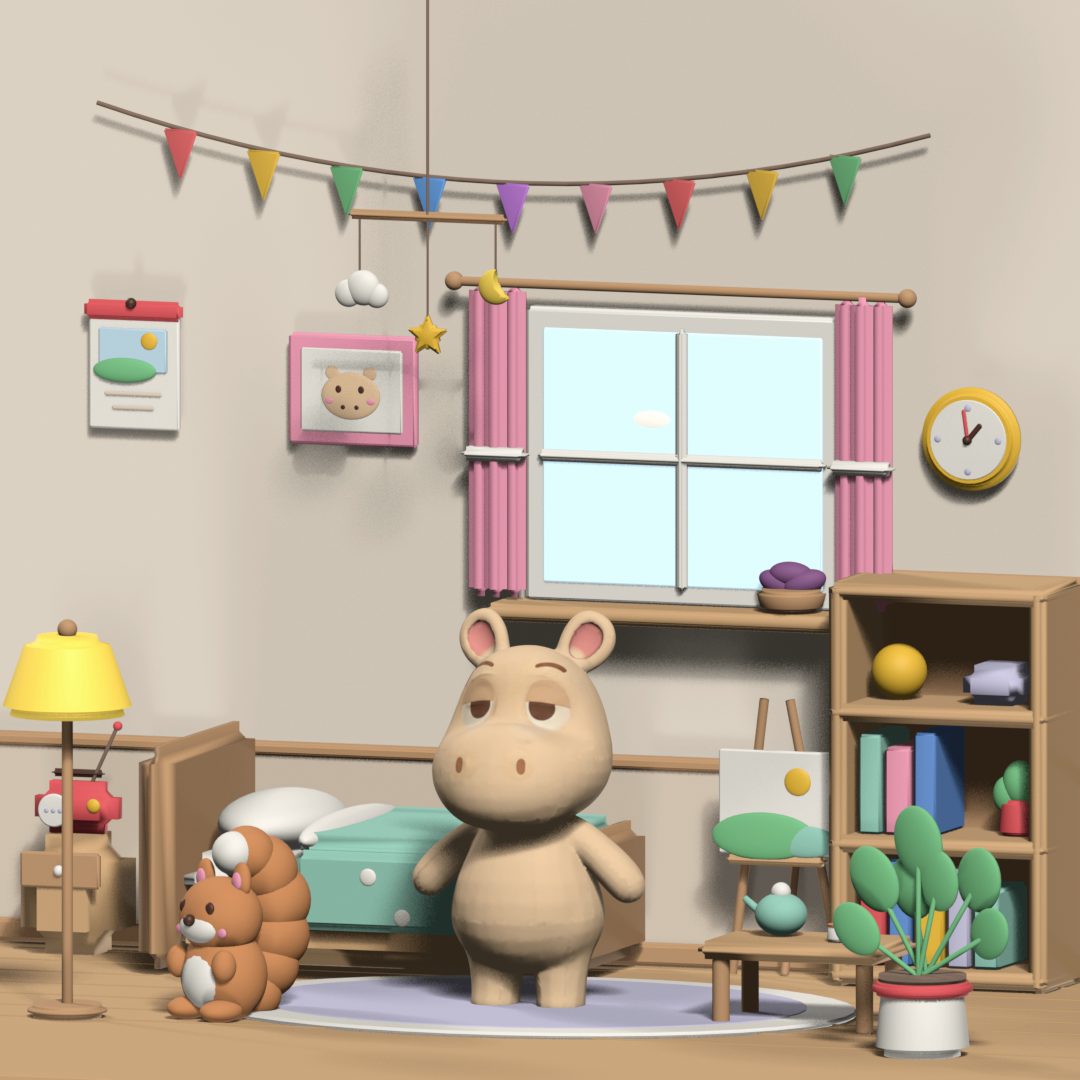
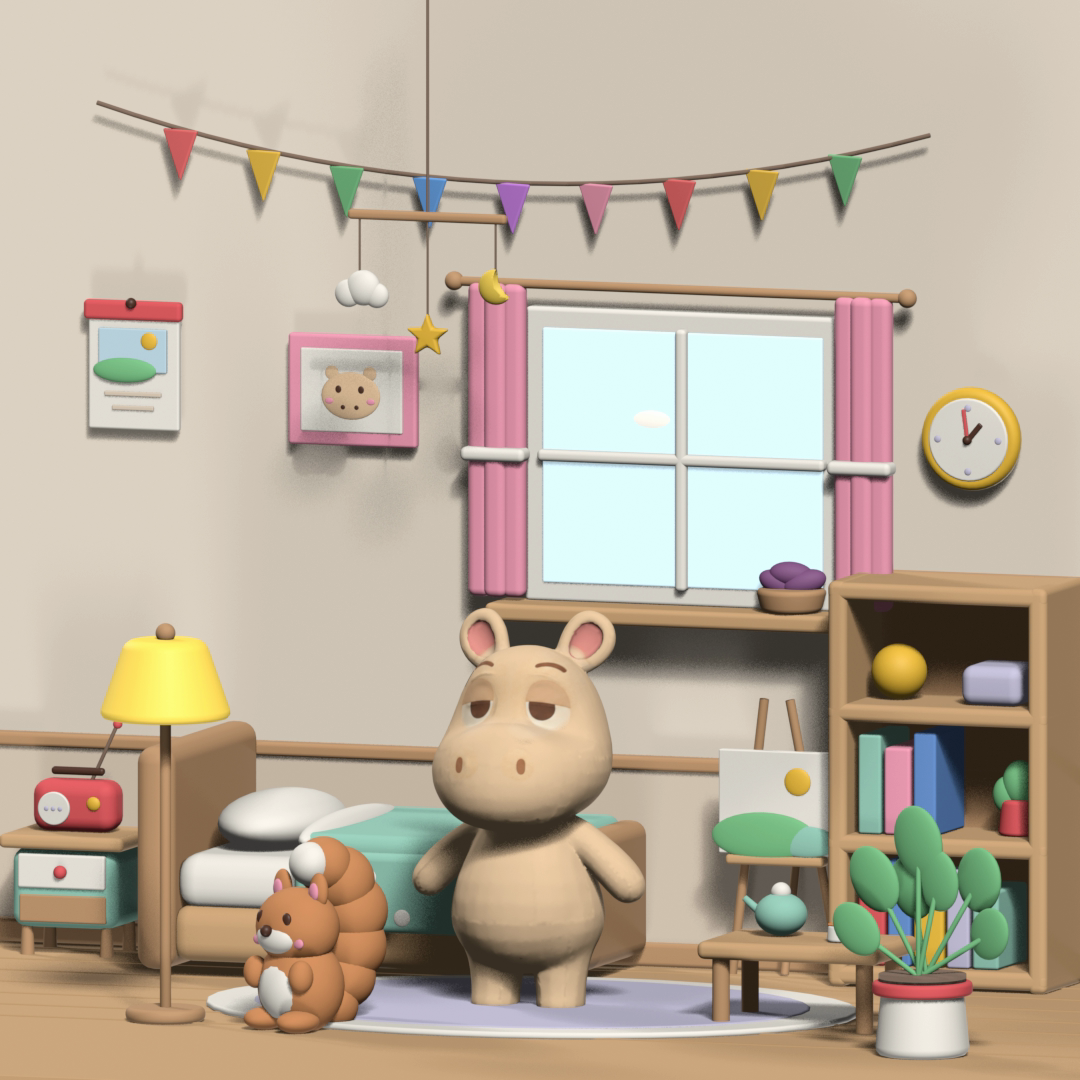
world: nightstand v2, aquarium fish visible, lamp moved, bevel profile fix (all props re-rendered)

diff --git a/scripts/blender/room.py b/scripts/blender/room.py
@@ -50,15 +50,15 @@ def _link(bm, name, m, weighted=True):
     if weighted:
         # big flat faces keep flat normals; only the bevels are smooth. Without this, smooth shading of a
         # beveled box bleeds the corner normals across the whole face (dark gradient on walls, faceted books).
-        wn = o.modifiers.new("wn", "WEIGHTED_NORMAL"); wn.mode = "FACE_AREA"; wn.weight = 100; wn.keep_sharp = True
+        wn = o.modifiers.new("wn", "WEIGHTED_NORMAL"); wn.mode = "FACE_AREA"; wn.weight = 50; wn.keep_sharp = True
     return o
 
 
-def rbox(name, size, loc, m, r=0.25, seg=3):
+def rbox(name, size, loc, m, r=0.25, seg=5):
     """rounded box; r = bevel as fraction of the smallest side"""
     bm = bmesh.new(); bmesh.ops.create_cube(bm, size=1.0)
     bmesh.ops.scale(bm, vec=size, verts=bm.verts)
-    bmesh.ops.bevel(bm, geom=list(bm.edges), offset=min(size) * min(r, 0.42), segments=seg, affect="EDGES", clamp_overlap=True)
+    bmesh.ops.bevel(bm, geom=list(bm.edges), offset=min(size) * min(r, 0.42), segments=seg, affect="EDGES", profile=0.5, clamp_overlap=True)
     o = _link(bm, name, m); o.location = loc
     return o
 
@@ -74,7 +74,7 @@ def cyl(name, r, h, loc, m, r2=None, seg=40, bevel=0.3, rot=None):
     bmesh.ops.create_cone(bm, cap_ends=True, segments=seg, radius1=r, radius2=r if r2 is None else r2, depth=h)
     if bevel:
         edges = [e for e in bm.edges if not e.is_manifold or e.calc_face_angle(0) > 0.5]
-        bmesh.ops.bevel(bm, geom=edges, offset=min(r, h) * bevel, segments=3, affect="EDGES")
+        bmesh.ops.bevel(bm, geom=edges, offset=min(r, h) * bevel, segments=3, affect="EDGES", profile=0.5)
     o = _link(bm, name, m); o.location = loc
     if rot: o.rotation_euler = rot
     # flat caps keep sharp shading
@@ -227,12 +227,12 @@ def squirrel():
                                       (0.12, 0.33, 0.08), (0.07, 0.37, 0.065), (0.03, 0.375, 0.05))):
         parts.append(sph(f"SqTail{i}", r, (0, ty, tz), m if i < 6 else c))
     g = group("squirrel", parts)
-    g.location = (-0.62, -0.62, FLOOR); g.rotation_euler = (0, 0, math.radians(-28)); g.scale = (1.1, 1.1, 1.1)
+    g.location = (*FRONT_CENTER, FLOOR); g.rotation_euler = (0, 0, math.radians(-28)); g.scale = (1.1, 1.1, 1.1)
     return g
 
 
 def lamp():
-    x, y = -1.0, -0.72
+    x, y = -0.74, -0.72      # pole stays clear of the bedside column (radio/aquarium)
     parts = [
         cyl("LampBase", 0.1, 0.035, (x, y, FLOOR + 0.0175), M("wood2"), bevel=0.4),
         cyl("LampPole", 0.014, 0.78, (x, y, FLOOR + 0.42), M("wood2"), bevel=0),
@@ -250,7 +250,7 @@ def tri(name, w, h, loc, m, thick=0.012):
     ext = bmesh.ops.extrude_face_region(bm, geom=[f])
     bmesh.ops.translate(bm, vec=(0, thick, 0), verts=[v for v in ext["geom"] if isinstance(v, bmesh.types.BMVert)])
     bmesh.ops.recalc_face_normals(bm, faces=bm.faces)
-    bmesh.ops.bevel(bm, geom=list(bm.edges), offset=thick * 0.45, segments=2, affect="EDGES", clamp_overlap=True)
+    bmesh.ops.bevel(bm, geom=list(bm.edges), offset=thick * 0.45, segments=2, affect="EDGES", profile=0.5, clamp_overlap=True)
     o = _link(bm, name, m); o.location = (loc[0], loc[1] - thick, loc[2] + 0.06)
     o.rotation_euler = (0, 0, math.radians(-19))      # square to the 3/4 camera
     return o
@@ -367,7 +367,7 @@ def mobile():
             f = bm.faces.new(verts)
             ext = bmesh.ops.extrude_face_region(bm, geom=[f])
             bmesh.ops.translate(bm, vec=(0, 0.025, 0), verts=[v for v in ext["geom"] if isinstance(v, bmesh.types.BMVert)])
-            bmesh.ops.bevel(bm, geom=list(bm.edges), offset=0.008, segments=2, affect="EDGES", clamp_overlap=True)
+            bmesh.ops.bevel(bm, geom=list(bm.edges), offset=0.008, segments=2, affect="EDGES", profile=0.5, clamp_overlap=True)
             o = _link(bm, "MoStar", M("yellow", 0.6)); o.location = (hx, y - 0.012, hz); parts.append(o)
         else:
             o = sph("MoMoon", 0.045, (hx, y, hz), M("lemon", 0.6), (1, 0.45, 1))
@@ -402,7 +402,7 @@ def rug():
     return group("rug", parts)
 
 
-FRONT_CENTER = (-0.62, -0.62)
+FRONT_CENTER = (-0.36, -0.78)
 
 
 def cushion():
@@ -456,11 +456,21 @@ BEDSIDE = (-1.45, YB - 0.2)
 
 
 def _bedside_table(x, y, parts):
-    w, d, h = 0.26, 0.26, 0.3
-    parts += [rbox("BsBody", (w, d, h), (x, y, FLOOR + h / 2), M("wood"), r=0.25),
-              rbox("BsDrawer", (w - 0.05, 0.02, 0.09), (x, y - d / 2 - 0.005, FLOOR + h - 0.08), M("wood2"), r=0.3),
-              sph("BsKnob", 0.014, (x, y - d / 2 - 0.02, FLOOR + h - 0.08), M("off"))]
-    return FLOOR + h
+    """협탁 v2: overhanging rounded wood top, mint body with one drawer + knob, open cubby, short round legs"""
+    w, d = 0.28, 0.24
+    leg_h, body_h, top_t = 0.07, 0.2, 0.035
+    for sx in (-1, 1):
+        for sy in (-1, 1):
+            parts.append(cyl(f"BsLeg{sx}{sy}", 0.018, leg_h + 0.01, (x + sx * (w / 2 - 0.035), y + sy * (d / 2 - 0.035), FLOOR + leg_h / 2), M("wood2"), r2=0.014, bevel=0.3))
+    zb = FLOOR + leg_h
+    parts += [
+        rbox("BsBody", (w, d, body_h), (x, y, zb + body_h / 2), M("mint", 0.75), r=0.18),
+        rbox("BsCubby", (w - 0.05, 0.02, 0.07), (x, y - d / 2 + 0.006, zb + 0.05), M("wood2", 0.85), r=0.3),     # dark inset = open shelf
+        rbox("BsDrawer", (w - 0.05, 0.02, 0.085), (x, y - d / 2 - 0.004, zb + 0.145), M("off", 0.8), r=0.3),
+        sph("BsKnob", 0.017, (x, y - d / 2 - 0.02, zb + 0.145), M("coral", 0.6)),
+        rbox("BsTop", (w + 0.05, d + 0.04, top_t), (x, y, zb + body_h + top_t / 2), M("wood"), r=0.4),
+    ]
+    return zb + body_h + top_t
 
 
 def radio_stand():
@@ -478,26 +488,33 @@ def radio_stand():
 
 
 def aquarium():
+    """어항 v2: tinted see-through tank (no opaque water block, so the fish show), 2 fish, weeds, bubbles"""
     x, y = BEDSIDE; parts = []
     top = _bedside_table(x, y, parts)
-    w, d, h = 0.24, 0.16, 0.18
-    glass = rbox("AqGlass", (w, d, h), (x, y, top + h / 2), mat("R_aqglass", (0.85, 0.95, 1.0), 0.15, alpha=0.35), r=0.12)
+    w, d, h = 0.25, 0.15, 0.19
+    glass = rbox("AqGlass", (w, d, h), (x, y, top + h / 2), mat("R_aqglass2", (0.70, 0.88, 0.97), 0.1, alpha=0.26), r=0.12)
     m = glass.active_material
     try:
         m.surface_render_method = "BLENDED"
     except Exception:
         m.blend_method = "BLEND"
+    m.use_backface_culling = True
     parts += [glass,
-              rbox("AqWater", (w - 0.02, d - 0.02, h * 0.72), (x, y, top + 0.01 + h * 0.36), M("water", 0.3, 0.15), r=0.12),
-              rbox("AqRim", (w + 0.01, d + 0.01, 0.018), (x, y, top + h), M("mint", 0.7), r=0.4),
-              rbox("AqSand", (w - 0.025, d - 0.025, 0.025), (x, y, top + 0.02), M("pebble", 0.9), r=0.4)]
-    for k, (fx, fz, col, flip) in enumerate(((-0.04, 0.08, "orange", 1), (0.05, 0.05, "confetti_y", -1))):
-        body = sph(f"AqFish{k}", 0.022, (x + fx, y - d / 2 + 0.03, top + fz), M(col, 0.6), (1.4, 0.6, 1))
-        tail = sph(f"AqTail{k}", 0.013, (x + fx - flip * 0.03, y - d / 2 + 0.03, top + fz), M(col, 0.6), (0.7, 0.4, 1.2))
-        eye = sph(f"AqEye{k}", 0.004, (x + fx + flip * 0.015, y - d / 2 + 0.017, top + fz + 0.005), M("brown"))
-        parts += [body, tail, eye]
+              rbox("AqRim", (w + 0.012, d + 0.012, 0.02), (x, y, top + h), M("mint", 0.7), r=0.4),
+              rbox("AqSand", (w - 0.02, d - 0.02, 0.03), (x, y, top + 0.02), M("pebble", 0.9), r=0.4)]
+    for k, (px, col) in enumerate(((-0.07, "coral"), (-0.04, "lemon"), (0.075, "lav"))):
+        parts.append(sph(f"AqPebble{k}", 0.014, (x + px, y - 0.02, top + 0.038), M(col, 0.8), (1.2, 1, 0.7)))
     for k in range(3):
-        parts.append(sph(f"AqWeed{k}", 0.02, (x + 0.08 - k * 0.015, y + 0.03, top + 0.04 + k * 0.025), M("leaf"), (0.6, 0.6, 1.5)))
+        parts.append(sph(f"AqWeed{k}", 0.022, (x + 0.085 - k * 0.012, y + 0.02, top + 0.06 + k * 0.03), M("leaf"), (0.6, 0.6, 1.6)))
+    # fish face the camera-ish, big enough to read at room scale
+    for k, (fx, fz, col, flip) in enumerate(((-0.05, 0.12, "orange", 1), (0.035, 0.075, "lemon", -1))):
+        fy = y - 0.01
+        body = sph(f"AqFish{k}", 0.032, (x + fx, fy, top + fz), M(col, 0.6), (1.35, 0.7, 1.0))
+        tail = sph(f"AqTail{k}", 0.02, (x + fx - flip * 0.045, fy, top + fz), M(col, 0.6), (0.6, 0.35, 1.25))
+        eye = sph(f"AqEye{k}", 0.006, (x + fx + flip * 0.02, fy - 0.02, top + fz + 0.008), M("brown"))
+        parts += [body, tail, eye]
+    for k, (bx, bz, r) in enumerate(((-0.02, 0.155, 0.006), (-0.012, 0.172, 0.008))):
+        parts.append(sph(f"AqBubble{k}", r, (x + bx, y - 0.02, top + bz), M("off", 0.3)))
     return group("aquarium", parts)
 
 

diff --git a/docs/STATUS.md b/docs/STATUS.md
@@ -31,6 +31,7 @@
 - 2026-11-09 (공간→전체, 대표 결정): 공간 순서 텃밭 ← 방(홈) → 마당 / 카메라 = 방 6.5°(지금 그대로), 텃밭·마당 25° → (캐릭터) 25° 단짝 클립은 텃밭용 대기·만세(수확)만 추가 렌더, 방은 기존 6.5° 그대로 / 소품은 정해진 자리 + 같은 자리 바꿔 끼우기 → (개발) items에 space/slot/layer, 공간 렌더 JSON으로 배치 / 텃밭 3칸 처음부터 / 아트 = Blender 스크립트 / 첫 작물 = 고구마(무료, 다음 날 수확 → 군고구마 냠냠). 소품 목록·가격(264)은 아래 줄에서 확정됨. (유료화) 테마 세트 = 같은 자리 바꿔 끼우는 모양, 상시 판매. 열심 사용자는 5주 차에 방을 다 채움 → 마당 업데이트 출시 후 4~5주 목표. 상세 docs/WORLD.md
 - 2026-11-09 (공간→기능·개발, 대표 결정): 기록 입력창은 방에만 둠 — FEATURES 7장 "입력창은 모든 공간 공통"을 바꿈. 축하 8종·곁에 앉기(안전 대응)는 방에서만 나옴. 수확물 먹이기·선물하기도 방에서. 텃밭·마당 화면은 입력창 없이 그 공간 조작만. 방 소품 하마 인형 → 다람쥐 인형
 - 2026-11-09 (공간→개발, 대표 결정): 방에서 단짝 크기 = 방 카드 높이의 약 37%(단짝 키 1 = 카드 너비 ÷ 2.7, 지금 PET_W 210 ≈ 54%보다 작게) → 공간 렌더 JSON에 단짝 기준점·크기 같이 넣을 예정. 처음 방 벽에 무료 기본 장식(그림 달력, 날짜 칸 없음) 1개. 방 소품 18개 그림·상점 썸네일 완성 → design/world/room/thumbs/<items.id>.png (512² 투명)
+- 2026-11-09 (공간→캐릭터·아트): bmesh.ops.bevel 기본 profile이 0이라 둥근 모서리가 계단처럼 깎임 → `profile=0.5`를 꼭 넣을 것. scripts/blender/props.py의 box()/소품(책상·의자·노트북 등)도 같은 문제 — 캐릭터 스레드가 고치고 다시 렌더할지 판단. room.py는 수정 완료
 
 - 2026-11-09 (대표 결정, 앱 스레드에서 확인): WORLD v1 목록 그대로 확정 — 방 소품 18개(9~30, 합계 264), 작물 4종(튤립·해바라기·딸기·고구마, 심기 3씨앗, 고구마 첫 작물 무료), 텃밭 3칸. 앱 스레드가 items 교체·텃밭 개발 시작
 - 2026-11-08 (기능→유료화, 대표 결정): 출시 수익 모델 = 체험 7일 → 월 3,000원 구독 유지. 출시 때 "단짝이 이 동작을 했으면 좋겠어요" 요청 버튼으로 동작 수요·결제 의사 데이터 수집(비용 0, 결제처럼 보이지 않게). 출시 1~2달 후 구독자 혜택 "이달의 새 동작" = 요청 많은 동작 매달 3~5개를 모두에게 추가. 개인별 맞춤 동작은 만들지 않음, 단건 판매는 데이터 본 뒤 보류 검토 → FEATURES.md S25~S27

diff --git a/docs/WORLD.md b/docs/WORLD.md
@@ -159,6 +159,8 @@
 - 배치 조정: 침대를 오른쪽으로 0.15, 협탁(라디오·어항)은 침대 왼쪽, 창문 x 0.1, 책장 x 0.86(오른쪽 잘림 방지), 좌식 탁자는 앞쪽, 큰 화분은 작게 앞-오른쪽 구석
 - 기타는 바닥에 기대면 탁자·화분에 가려져서 **벽에 걸기**로 바꿈(이젤과 같은 자리)
 - 가랜드·전구줄 썸네일은 가로로 길어서 작게 보임 — 상점에서 그대로 쓰거나, 필요하면 앱에서 가운데만 잘라 써도 됨
+- 2026-11-09 대표 피드백 반영: 협탁 다시 만듦(민트 몸통 + 흰 서랍·코랄 손잡이 + 아래 열린 칸 + 둥근 나무 상판 + 짧은 다리). 스탠드가 협탁 앞을 가리던 것 → 스탠드·다람쥐/쿠션 자리를 오른쪽으로 옮김. 어항에 물고기 2마리가 원래 있었지만 불투명한 물 상자에 가려 안 보였음 → 물 상자 빼고 반투명 유리만, 물고기 키움 + 조약돌·물방울
+- 모든 소품 모서리가 계단처럼 보이던 원인: bmesh 베벨 기본 profile이 0(둥글지 않음) → profile=0.5로 고쳐 전부 재렌더. scripts/blender/props.py(캐릭터 소품: 책상·의자·공책 등)도 같은 코드라 같은 문제가 있음 → 캐릭터 스레드에 알림(STATUS)
 - 다음(3단계 텃밭, 4단계 앱용 내보내기): 4단계에서 소품마다 제자리 투명 렌더 + 위치 JSON(그림자는 바닥/벽 그림자 캐처로 같이 굽기)
 
 ## 5. 개발 스레드 전달 사항 (확정 후 반영)

diff --git a/docs/ART_BIBLE.md b/docs/ART_BIBLE.md
@@ -15,6 +15,7 @@
 
 ## 3. 형태 언어
 - 모서리는 모두 둥글게. 각진 박스 금지: 박스는 베벨(짧은 변의 약 25%, 3단) 또는 구/캡슐 기반.
+  - 스크립트로 베벨할 때 `bmesh.ops.bevel(..., profile=0.5)` 필수(기본값 0이면 둥글지 않고 계단처럼 깎임). 큰 면 그라데이션 방지에 Weighted Normal 모디파이어.
 - 실루엣은 단순하게. 디테일은 형태보다 색으로 표현한다(예: 책 = 표지 박스 + 종이 박스 + 줄 몇 개).
 - 비율은 약간 통통하고 짧게(가구 다리 짧고 두껍게, 손잡이는 굵게). 실물보다 귀엽게 과장해도 된다.
 - 텍스처 패턴이나 사실적 질감(나뭇결, 섬유)은 쓰지 않는다. 단색 면 + 조명으로 입체감을 낸다.
